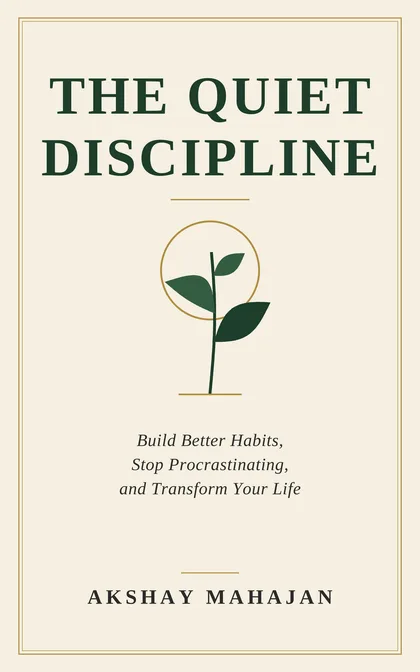
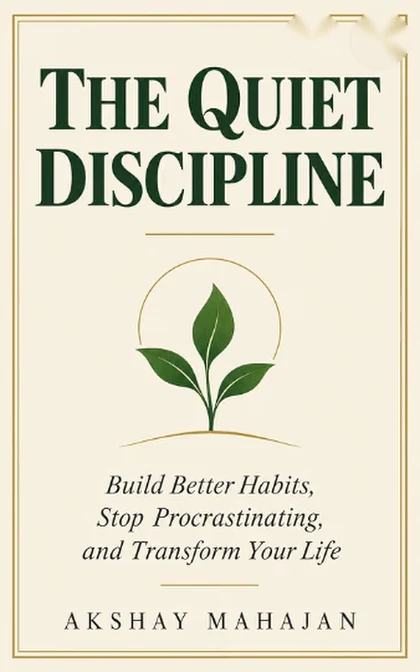
Books page: direct Amazon links, live covers and blurbs for four books
Adds amazon.com/dp links (Kindle ASINs), the live Amazon covers, full
subtitles and descriptions taken from the live listings. Say No Without the
Guilt keeps a search link until its product link is known. Fixes covers
stretching to card height.

Claude-Session: https://claude.ai/code/session_01LmeSshuTUK3AFhFS2Pr6br

Changed region(s): [[0.031, 0.0, 0.9905, 1.0]]

diff --git a/lib/books.ts b/lib/books.ts
@@ -7,8 +7,8 @@
  * for each book; where no description is on file the field is simply left out
  * rather than written fresh.
  *
- * `amazonUrl` is optional. Until a direct product link is added, the card sends
- * readers to an Amazon search for the title and author, which always resolves.
+ * `amazonUrl` is the amazon.com product page (ASIN) of the Kindle edition. Where it is
+ * not set yet, the card sends readers to an Amazon search for the title and author.
  */
 export interface Book {
   title: string;
@@ -39,31 +39,45 @@ export const BOOKS: Book[] = [
     title: 'The Overthinking Reset',
     subtitle: '21 Days to Calm Your Mind, Decide Faster, and Take Action',
     description:
-      'A text-based self-help guide to calming overthinking, with a day-by-day plan that takes 5–10 minutes a day.',
+      'A short, practical guide with simple tools drawn from published psychology research, plus a 21-day plan that takes just 5–10 minutes a day. Spot the overthinking loop, use a 10-minute worry window and make decisions faster with four simple rules.',
     kindle: '2026-11',
     paperback: '2026-11',
+    amazonUrl: 'https://www.amazon.com/dp/B0HDXTSNV4',
+    cover: '/books/the-overthinking-reset.webp',
     tone: 'teal',
   },
   {
     title: 'The Quiet Discipline',
     subtitle: 'Build Better Habits, Stop Procrastinating, and Transform Your Life',
     description:
-      'A practical, research-informed guide to self-discipline, daily habits and focus, for people who want progress without burnout or self-blame. Twelve chapters, each ending with an exercise.',
+      'A practical, research-informed guide to self-discipline, daily habits and focus, for people who want steady progress without burnout or self-blame.',
     kindle: '2026-10',
     paperback: '2026-10',
+    amazonUrl: 'https://www.amazon.com/dp/B0HM9BPWVB',
     cover: '/books/the-quiet-discipline.webp',
     tone: 'blue',
   },
   {
     title: 'Transform Yourself',
+    subtitle:
+      'A Practical Guide to Building Better Habits, Developing a Stronger Mindset, Overcoming Procrastination, and Creating Lasting Change',
+    description:
+      'Most books tell you that you need more discipline. This one starts somewhere more useful: change does not fail randomly, it fails at a specific point.',
     kindle: '2026-10',
     paperback: '2026-08',
+    amazonUrl: 'https://www.amazon.com/dp/B0HLY6PZCH',
+    cover: '/books/transform-yourself.webp',
     tone: 'amber',
   },
   {
     title: 'The 5 AM Lie',
+    subtitle: 'Ditch the Guru Schedules, Find Your Natural Rhythm, and Get More Done in Your Own Best Hours',
+    description:
+      'Wake up at 5 AM, take a cold shower, hustle before sunrise: the biggest lie in self-help. There is no universal magic hour, but there is a personal one. Using the science of circadian rhythms and chronotypes, it shows you how to stop copying someone else\'s schedule and design your day around the clock already built into your body.',
     kindle: '2026-07',
     paperback: '2026-08',
+    amazonUrl: 'https://www.amazon.com/dp/B0HCCG97K9',
+    cover: '/books/the-5-am-lie.webp',
     tone: 'rose',
   },
 ];

diff --git a/pages/Books.tsx b/pages/Books.tsx
@@ -73,7 +73,7 @@ const BookCard: React.FC<{ book: Book }> = ({ book }) => (
         height={672}
         loading="lazy"
         decoding="async"
-        className="aspect-[5/8] w-full max-w-[150px] shrink-0 rounded-[4px] object-cover shadow-[0_10px_30px_-12px_rgba(15,23,42,0.45)] sm:w-[130px]"
+        className="aspect-[5/8] h-auto w-full max-w-[150px] shrink-0 self-start rounded-[4px] object-cover shadow-[0_10px_30px_-12px_rgba(15,23,42,0.45)] sm:w-[130px]"
       />
     ) : (
       <div
@@ -98,7 +98,7 @@ const BookCard: React.FC<{ book: Book }> = ({ book }) => (
         rel="noopener noreferrer"
         className="btn-ghost mt-5 inline-flex items-center justify-center px-5 py-2.5 text-[14.5px] font-medium"
       >
-        View on Amazon
+        {book.amazonUrl ? 'View on Amazon' : 'Find on Amazon'}
       </a>
     </div>
   </article>
@@ -131,8 +131,8 @@ const Books: React.FC = () => (
               self-help guides, not medical or psychological advice.
             </P>
             <P>
-              The "View on Amazon" buttons open an Amazon search for the title and author. Prices and
-              availability by country are shown on Amazon itself.
+              The buttons open each book on Amazon. Prices, formats and availability by country are
+              shown on Amazon itself.
             </P>
             <Callout title="Also by the same author">
               I also build websites and automation for small businesses. See the{' '}
